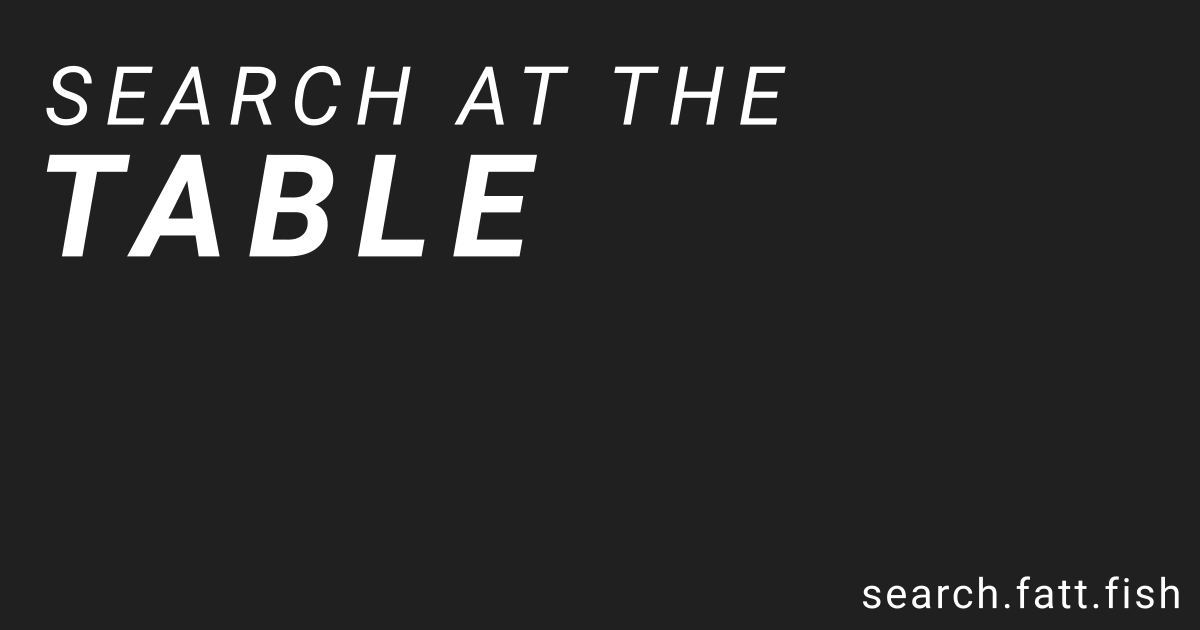
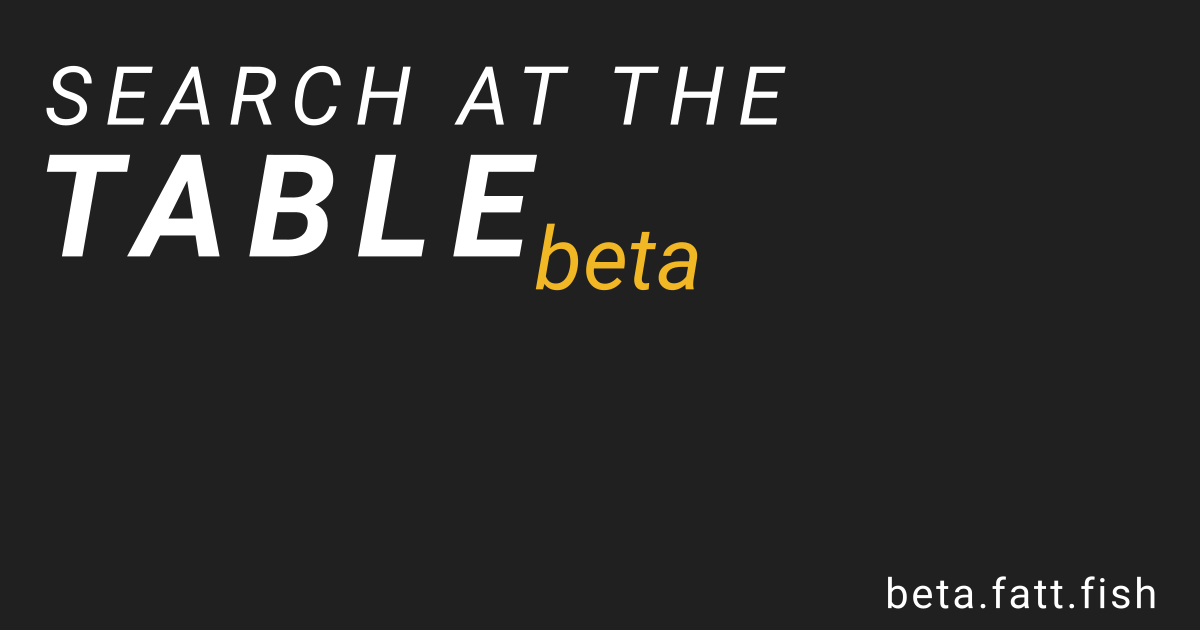
new cover

Changed region(s): [[0.4317, 0.3619, 0.5858, 0.4825], [0.7092, 0.9048, 0.9867, 0.9651]]

diff --git a/satt/static/index.html b/satt/static/index.html
@@ -3,17 +3,17 @@
   <head>
     <meta charset="utf-8" />
     <meta name="viewport" content="width=device-width, initial-scale=1" />
-    <title>Search at the Table</title>
+    <title>Search at the Table (beta!)</title>
     <link
       href="https://fonts.googleapis.com/css2?family=Open+Sans&family=Roboto:ital,wght@1,400;1,700&display=swap"
       rel="stylesheet"
     />
     <link rel="icon" href="favicon.png" />
-    <meta property="og:image" content="https://search.fatt.fish/cover.png" />
+    <meta property="og:image" content="https://beta.fatt.fish/cover.png" />
     <meta property="og:title" content="Search at the Table" />
     <meta property="og:description" content="a search engine for actual-play podcast Friends at The Table!" />
     <meta property="og:type" content="website" />
-    <meta property="og:url" content="https://search.fatt.fish" />
+    <meta property="og:url" content="https://beta.fatt.fish" />
     <meta property="twitter:card" content="summary_large_image" />
     <meta property="twitter:creator" content="@sapphiclinguine" />
     <script async src="https://umami.cat-girl.gay/script.js" data-website-id="8fe2f370-6c2a-4987-aed5-0900eda097bb"></script>
